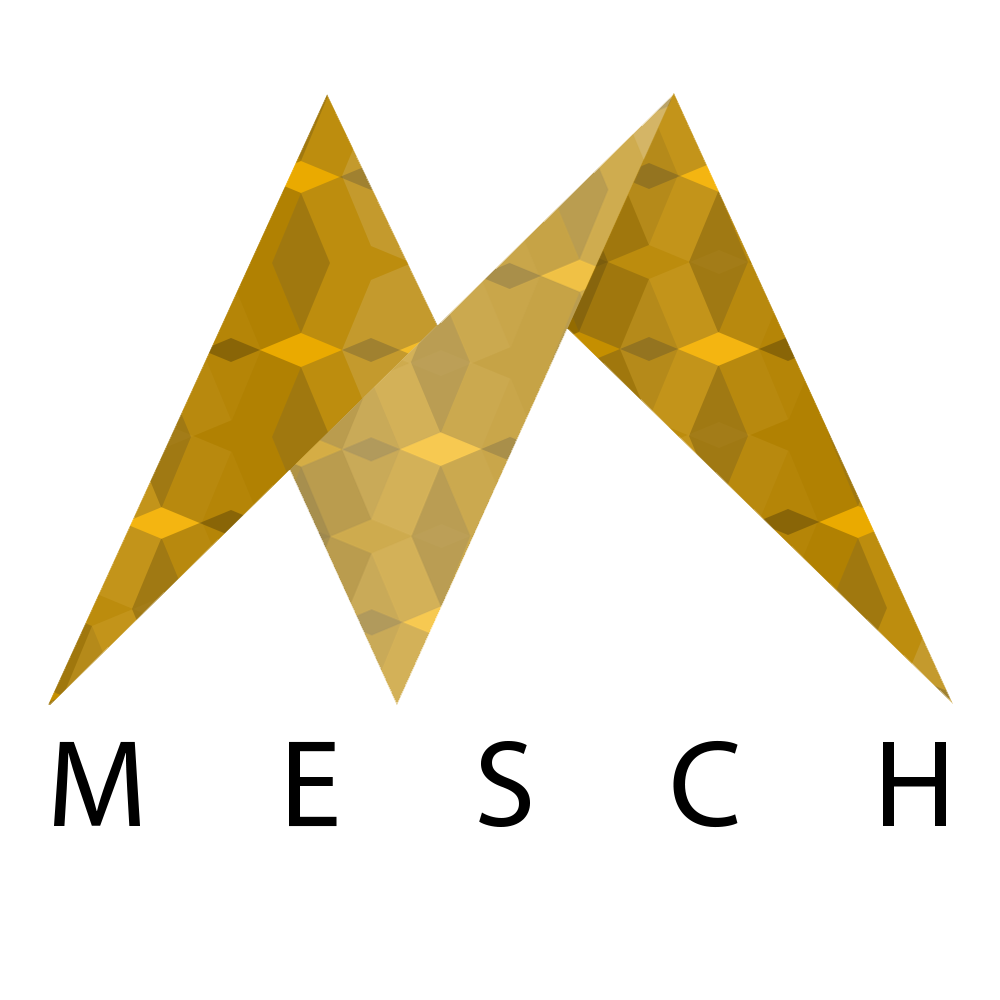
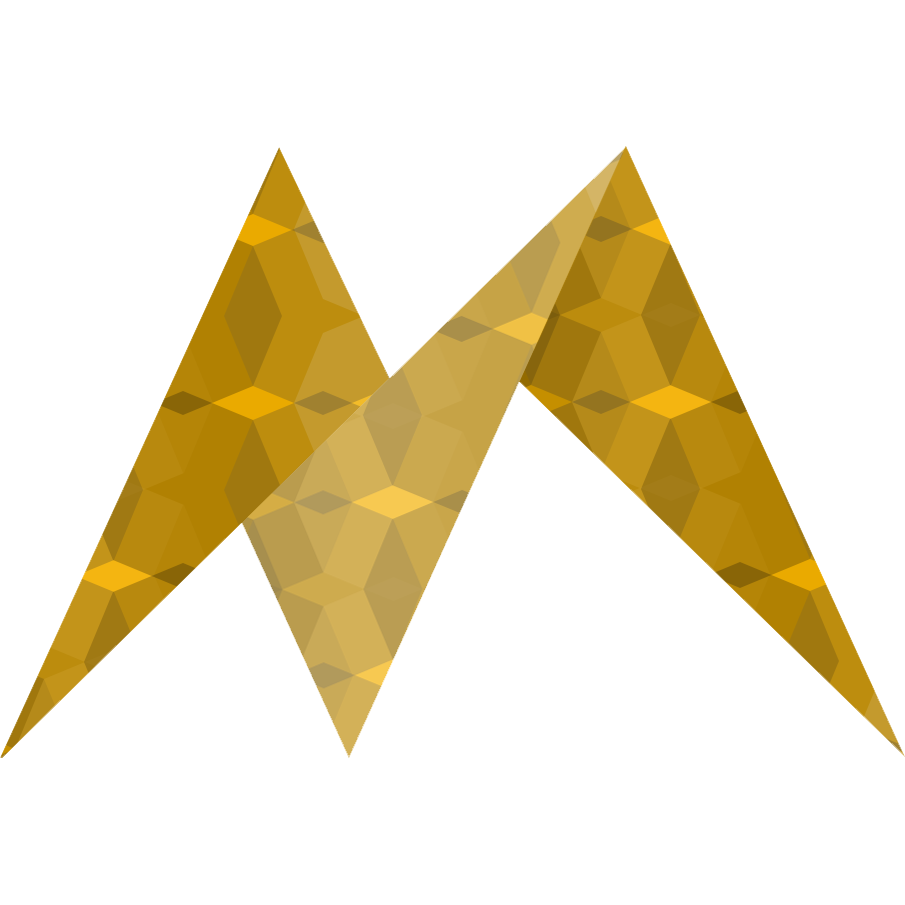
footer: fix styling
* use simple mesch logo
* fix style of footer

Changed region(s): [[0.0, 0.0928, 1.0, 0.8354], [0.6497, 0.7425, 0.7425, 0.8354], [0.4641, 0.7425, 0.526, 0.8354]]

diff --git a/app/assets/stylesheets/custom.css.scss b/app/assets/stylesheets/custom.css.scss
@@ -57,19 +57,49 @@ body {
   width: 100%;
   /* Set the fixed height of the footer here */
   height: 45px;
-  background-color: #2B2D34;
-  color: #A3A5AC;
   text-align: center;
-  border: 1px groove #aaaaaa;
   color: White;
   padding: 0;
   text-align: center;
   vertical-align: middle;
   line-height: normal;
   margin: 0;
-  position: fixed;
   bottom: 0px;
   width: 100%;
+
+  hr {
+    margin: auto;
+  }
+
+  img {
+    height: 45px;
+    width: auto;
+    display: inline-block;
+  }
+
+  #cr {
+    display: inline-block;
+    margin: 0 auto;
+    padding: 5px;
+  }
+
+  #mesch {
+    float: left;
+    margin-right: 12px;
+  }
+
+  p {
+    font-size: 16px;
+    float: left;
+    padding: 10px 0px;
+    color: #222;
+  }
+
+  a#about {
+    font-size: 16px;
+    padding: 10px 0px;
+    float: right;
+  }
 }
 .fullpage {
   height: 100vh;
@@ -293,53 +323,4 @@ a#main {
   background-color: #d9edf7;
   border-color: #bce8f1;
   color: #31708f
-}
-
-#footer {
-  position: absolute;
-  bottom: 0;
-  min-width: 100%;
-  margin: auto 0;
-  margin-bottom: 0;
-  border: 0px solid #fff;
-  background-color: #fff;
-
-  .container {
-    max-width: 90%;
-  }
-
-  hr {
-    height: 5px;
-    margin: auto 5%;
-    margin-top: 2px;
-    border-top: 1.5px solid #c3c3c3;
-  }
-
-  img {
-    height: 40px;
-    width: auto;
-    display: inline-block;
-  }
-
-  #cr {
-    display: block;
-    margin: 0 auto;
-  }
-
-  #mesch {
-    float: left;
-    margin-right: 12px;
-  }
-
-  p {
-    float: left;
-    margin: 10px 0;
-    color: #222;
-  }
-
-  a#about {
-    font-size: 16px;
-    padding: 10px 0px;
-    float: right;
-  }
 }
